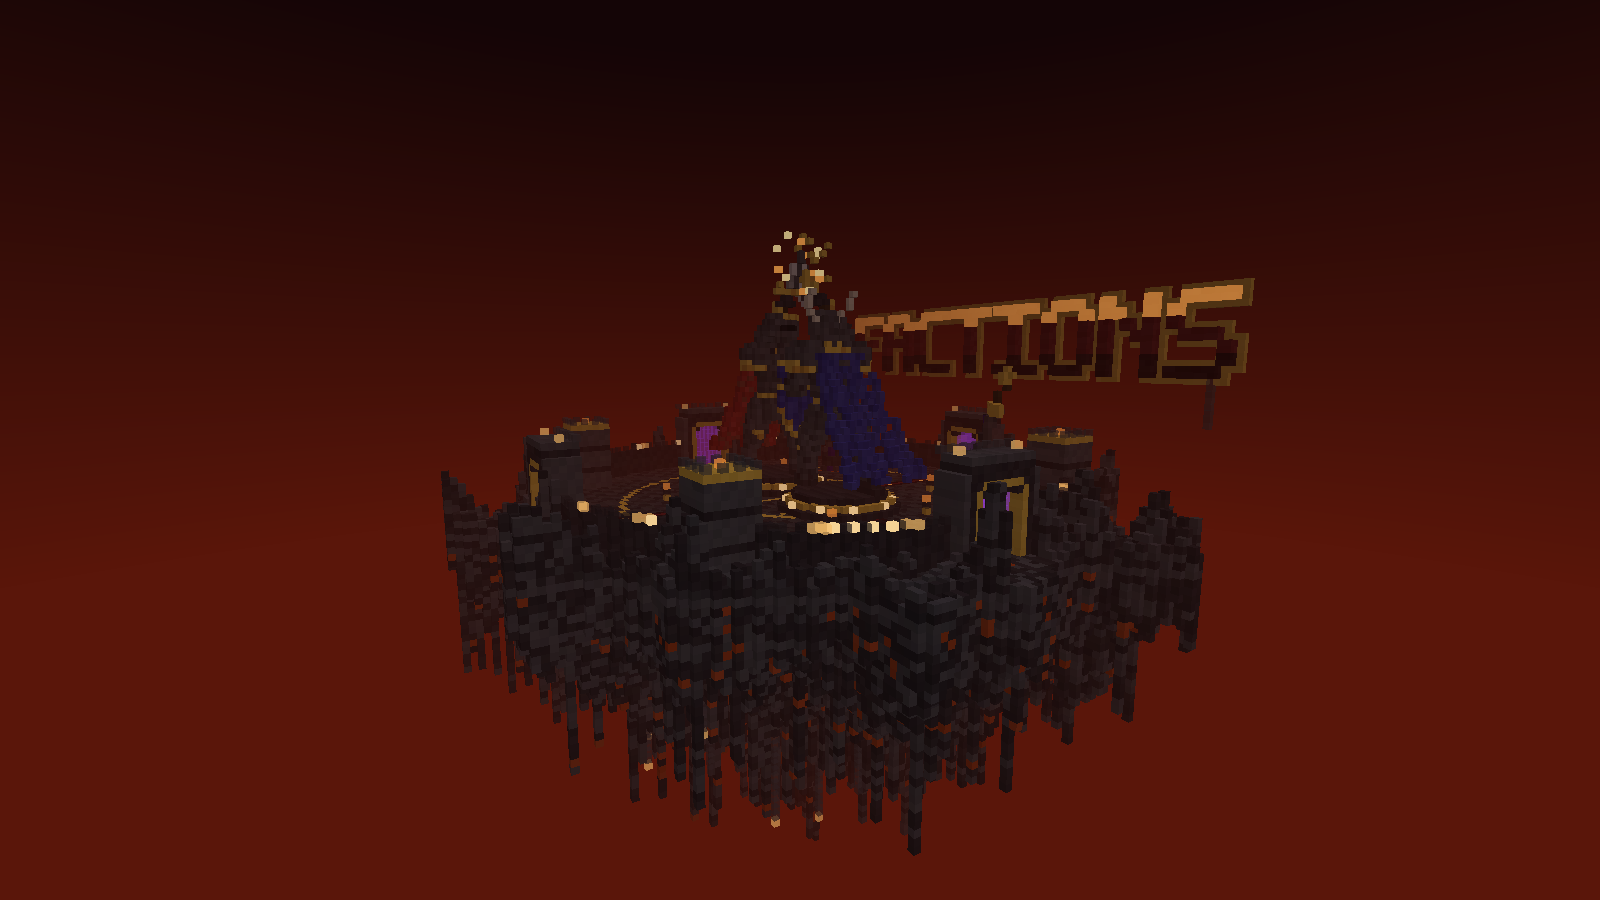
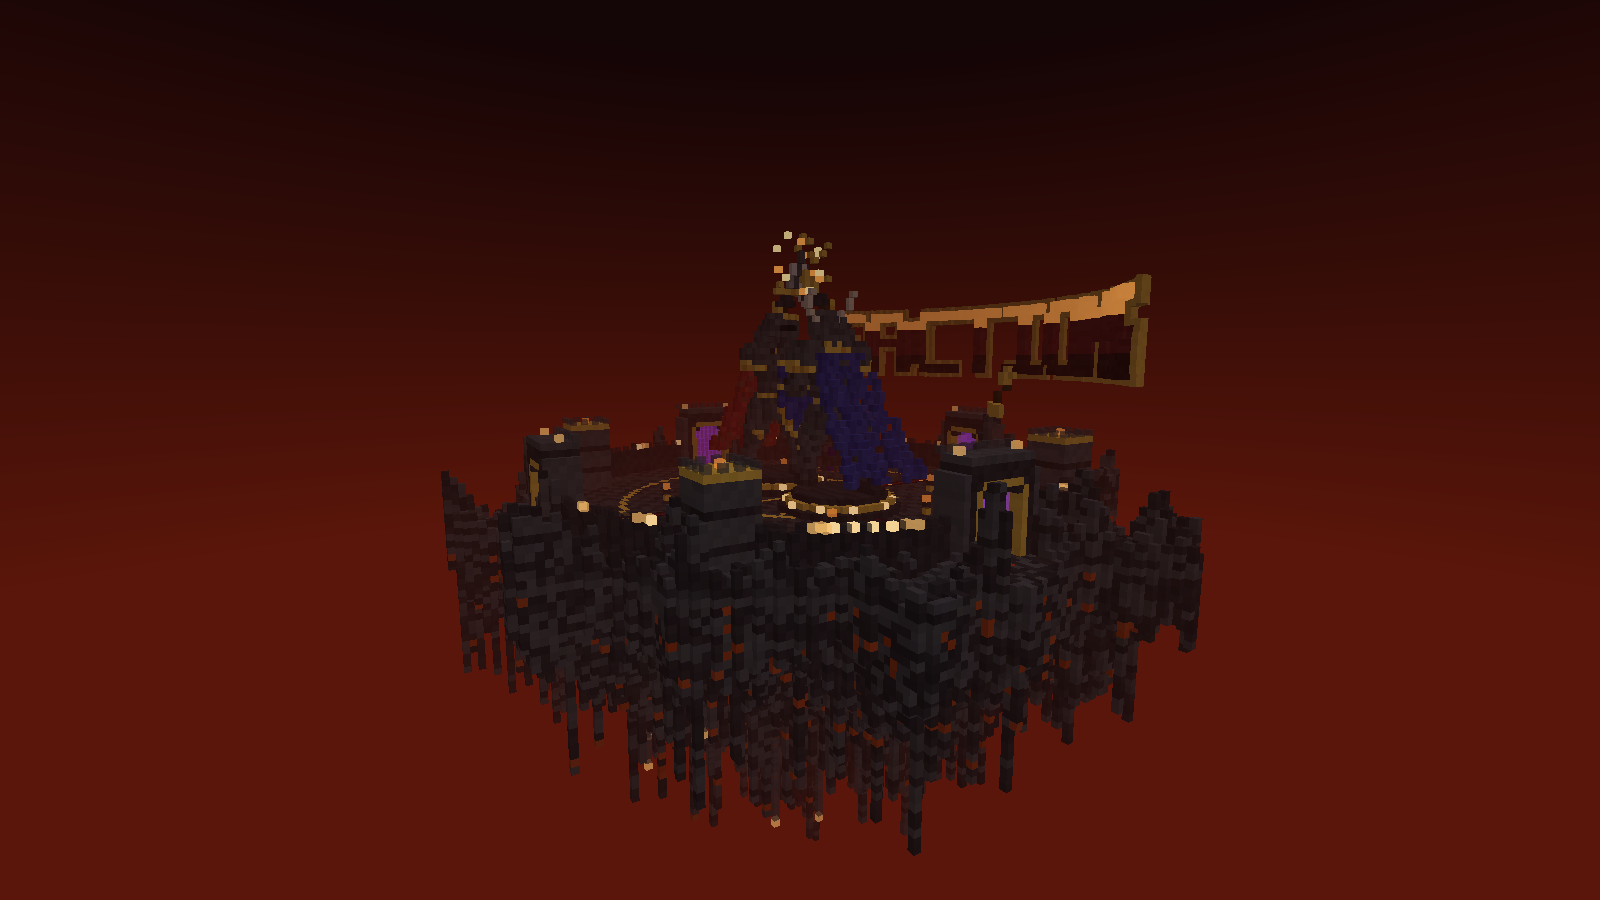
Factions sign: bend the lettering around the island's edge
Every column of FACTIONS now sits on an arc centred on the island (radius 51),
letters facing inward, gold backing on the outside, chains down to the rock.

Claude-Session: https://claude.ai/code/session_01ABCiX6iRfL7QAMsyyi4V7c

Changed region(s): [[0.5312, 0.3111, 0.7812, 0.4356]]

diff --git a/plugins-src/AlloyCore/src/main/java/net/alloymc/core/factions/FactionsBuilder.java b/plugins-src/AlloyCore/src/main/java/net/alloymc/core/factions/FactionsBuilder.java
@@ -199,19 +199,51 @@ public final class FactionsBuilder {
         }
     }
 
-    /** "FACTIONS" in red-gold letters above the north gate. */
+    /** Radius of the arc the FACTIONS sign is bent around (centred on the island, like its edge). */
+    static final double SIGN_R = 51;
+
+    /**
+     * "FACTIONS" in red-gold letters above the north gate, bent around the island so the word wraps along its
+     * edge: every column of the lettering sits on a circle centred on (0, 0), facing inward toward spawn.
+     */
     private void sign() {
         String text = "FACTIONS";
-        int scale = 2, spacing = 1, width = BlockFont.width(text, spacing) * scale, x0 = -width / 2, y0 = 22, z = -R - 4;
+        int scale = 2, spacing = 1, width = BlockFont.width(text, spacing) * scale, y0 = 22;
+        java.util.Map<Long, String> glyph = new java.util.HashMap<>();   // flat sign space (u across, v up) -> block
         BlockFont.draw(text, spacing, (col, row, glyphRow) -> {
             String b = glyphRow <= 1 ? "shroomlight" : glyphRow <= 4 ? "red_nether_bricks" : "nether_bricks";
-            for (int sx = 0; sx < scale; sx++) for (int sy = 0; sy < scale; sy++) {
-                int x = x0 + col * scale + sx, y = y0 + row * scale + sy;
-                set(x, y, z, b); set(x, y, z + 1, b);
-                for (int ox = -1; ox <= 1; ox++) for (int oy = -1; oy <= 1; oy++) if (get(x + ox, y + oy, z - 1) == null) set(x + ox, y + oy, z - 1, "gold_block");
-            }
+            for (int sx = 0; sx < scale; sx++) for (int sy = 0; sy < scale; sy++) glyph.put(key(col * scale + sx, row * scale + sy), b);
         });
-        for (int s : new int[]{-1, 1}) for (int y = 14; y < 22; y++) set(s * (width / 2 - 4), y, z - 1, "iron_chain[axis=y]");
+        // letters: two blocks deep on the inner face of the arc
+        for (var e : glyph.entrySet()) {
+            int u = (int) (e.getKey() >> 32), v = (int) (long) e.getKey().intValue();
+            for (double r : new double[]{SIGN_R - 1, SIGN_R}) bend(u, v, y0, width, r, e.getValue(), true);
+        }
+        // gold backing plate one block outward, a cell wider than the letters all round
+        for (var e : glyph.entrySet()) {
+            int u = (int) (e.getKey() >> 32), v = e.getKey().intValue();
+            for (int du = -1; du <= 1; du++) for (int dv = -1; dv <= 1; dv++) bend(u + du, v + dv, y0, width, SIGN_R + 1, "gold_block", false);
+        }
+        // chains from under each end of the word down to the rock below, where there is any
+        for (int end : new int[]{6, width - 7}) {
+            double a = -Math.PI / 2 + (end + 0.5 - width / 2.0) / SIGN_R;
+            int x = (int) Math.floor(Math.cos(a) * (SIGN_R + 1)), z = (int) Math.floor(Math.sin(a) * (SIGN_R + 1));
+            int ground = y0 - 1;
+            while (ground > -2 && empty(x, ground, z)) ground--;
+            if (ground <= -2) continue;
+            for (int y = ground + 1; y < y0; y++) if (empty(x, y, z)) set(x, y, z, "iron_chain[axis=y]");
+        }
+    }
+
+    private static long key(int u, int v) { return ((long) u << 32) | (v & 0xFFFFFFFFL); }
+
+    /** Sets sign-space cell (u, v) on the arc of radius r (sampling across the cell so curved rows have no gaps). */
+    private void bend(int u, int v, int y0, int width, double r, String b, boolean overwrite) {
+        for (double s = u + 0.125; s < u + 1; s += 0.25) {
+            double a = -Math.PI / 2 + (s - width / 2.0) / SIGN_R;
+            int x = (int) Math.floor(Math.cos(a) * r), z = (int) Math.floor(Math.sin(a) * r);
+            if (overwrite || get(x, y0 + v, z) == null) set(x, y0 + v, z, b);
+        }
     }
 
     // ------------------------------------------------------------------ the warriors
